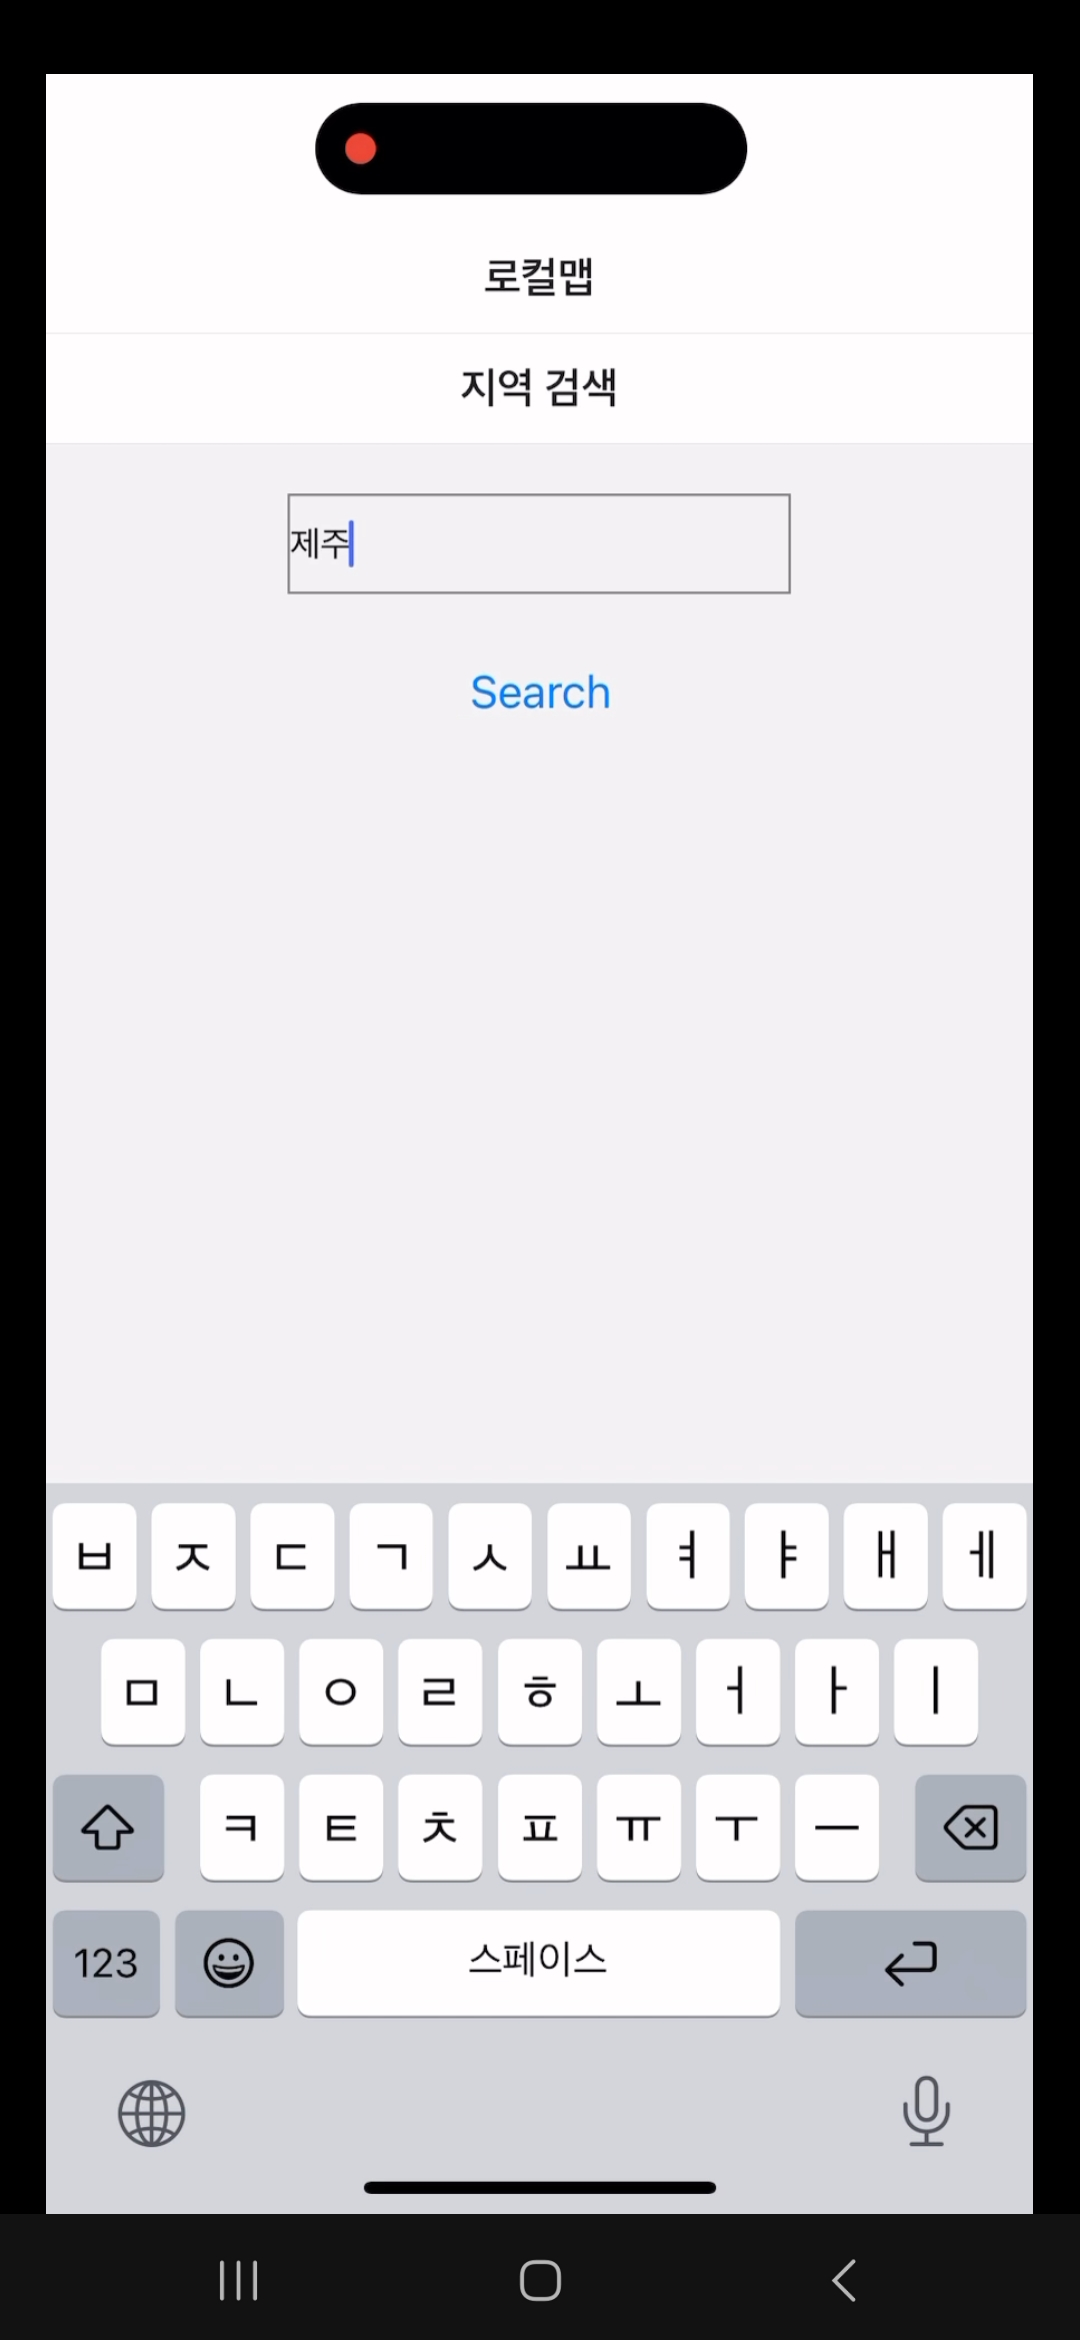
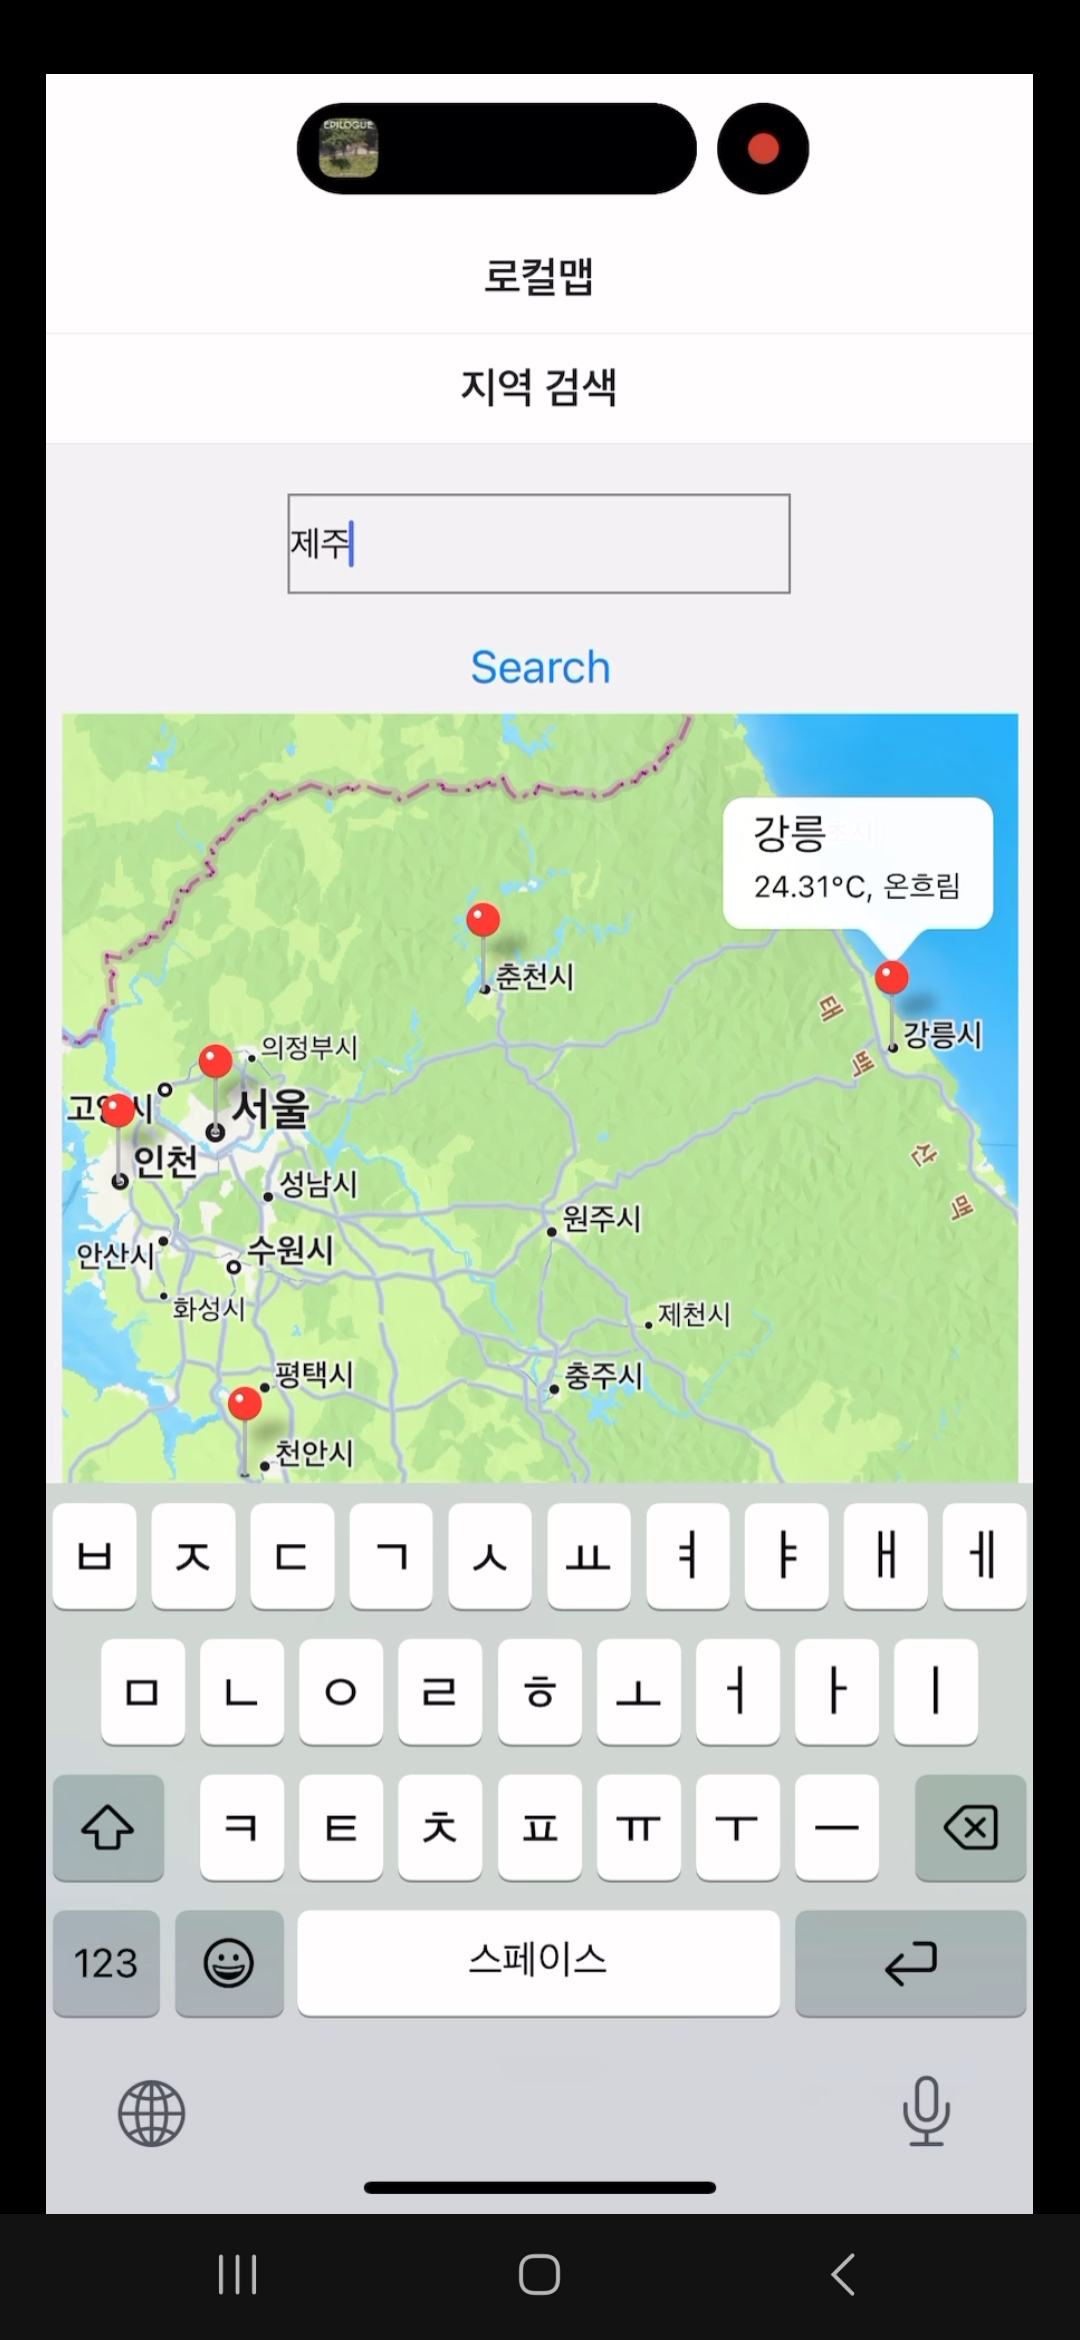
깃 홈페이지 제작

diff --git a/index.html b/index.html
@@ -8,24 +8,34 @@
 <body>
     <hl>오픈소스 프로젝트 날씨예보 앱 입니다.</hl><br><br>
     <hl>깃 저장소 URL : https://github.com/Lemon0825/WeatherApp.git</hl><br>
-    <hl>주제 : 날씨예보 앱</hl><br><br>
+    <hl>주제 : 날씨예보 앱</hl><br>
+    <hl>프로젝트 목표 : 사용자가 앱 실행시 현재시각의 날씨정보와 특정 지역의 날씨 검색, 알람설정을 통해 설정한 시간에 날씨정보에 대한 알림기능 구현</hl><br><br>
+
     <hl>-참여 팀원-</hl><br>
     <hl>최효신 - 기본 날씨정보 제공 기능 구현, 최대 5일 후까지의 날씨정보 제공 기능 구현</hl><br>
     <hl>오태호 - 알람설정 및 알림 기능 구현, 설정한 알람 삭제, 수정기능 구현</hl><br>
     <hl>황창희 - 지역검색 후 그 지역의 날씨정보 실시간 제공 기능 구현</hl><br><br>
     <hl>-요약 기능-</hl><br>
+    <img src="./scs/start.jpg" alt="" width="300" height="500"><br>
+    <hl>어플리케이션을 시작했을 때 나오는 화면 하단의 버튼 터치할 시 다음 화면으로 넘어갑니다.</hl><br><br><br>
+
     <img src="./scs/home.jpg" alt="" width="300" height="500"><br>
-    <hl>앱 실행시 가장 먼저 뜨는 화면. 열기서 현재 시각의 날씨와 최대 4일 후까지의 날씨정보를 알 수 있습니다.</hl><br><br><br>
+    <hl>앱 실행시 가장 먼저 뜨는 화면. 여기서 현재 시각의 날씨와 최대 4일 후까지의 날씨정보를 알 수 있습니다.</hl><br><br><br>
 
 
-    <img src="./scs/date.jpg" alt="" width="300" height="500"><br>
+    <img src="./scs/date.jpg" alt="" width="300" height="500">
     <img src="./scs/time.jpg" alt="" width="300" height="500"><br>
     <hl>탭바를 이용해 알람 설정 화면으로 이동. 이 화면에서 알람 설정가능. </hl><br><br><br>
 
-    <img src="./scs/search.jpg" alt="" width="300" height="500"><br>
-    <hl>이 화면에서 날씨정보를 알고 싶은 지역을 검색.</hl><br><br><br>
+    <img src="./scs/localmap.jpg" alt="" width="300" height="500"><br>
+    <hl>로컬맵 탭으로 이동하면 먼저 지도가 출력되고 마커를 터치하면 각 지역별로 현재 날씨 정보를 알 수 있습니다.</hl><br><br><br>
 
-    <img src="./scs/local.jpg" alt="" width="300" height="500"><br>
-    <hl>검색한 지역의 날씨정보 제공</hl><br>
+    <img src="./scs/search.jpg" alt="" width="300" height="500"><br>
+    <hl>이 화면에서 날씨정보를 알고 싶은 지역을 검색할 수 있습니다.</hl><br><br><br>
+
+    <img src="./scs/locwea.jpg" alt="" width="300" height="500"><br>
+    <hl>검색한 지역의 날씨정보 제공합니다.</hl><br><br><br><br>
+
+    <hl>문의처 : sinto825@naver.com</hl><br>
 </body>
 </html>
